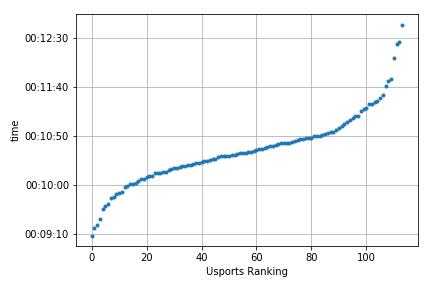
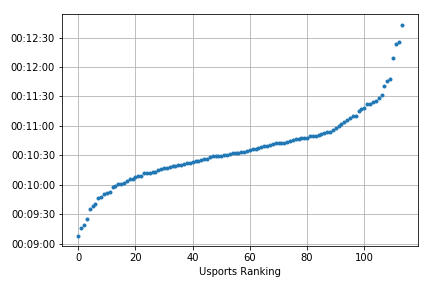
test and add requirements.txt

diff --git a/Trackie Analysis/src/trackie_analysis.py b/Trackie Analysis/src/trackie_analysis.py
@@ -6,24 +6,24 @@ Created on Fri Feb 15 13:58:07 2019
 """
 
 #%%
-
 import datetime
 import numpy as np
 import requests
 import matplotlib.pyplot as plt
 from bs4 import BeautifulSoup as bs
+from matplotlib import dates
 
 from matplotlib import rcParams
 rcParams.update({'figure.autolayout': True})
 
-## Use requests to get data from the Trackie web page            
+## Use requests to get data from the Trackie web page
 URL = 'https://www.trackie.com/USports/TNF/Rankings/wommens-3000-meter/11/'
 
 r = requests.get(URL)
- 
+
 ## Get HTML table
-soup = bs(r.content,'html5lib')    
-table = soup.find("table", attrs={"style":"width: 670px;"}) 
+soup = bs(r.content,'html5lib')
+table = soup.find("table", attrs={"style":"width: 670px;"})
 
 ## Extract data from HTML table
 datasets = []
@@ -38,10 +38,10 @@ for dataset in datasets:
     temp_list = []
     for field in dataset:
         temp_list.append(field)
-        
+
     data_dict[temp_list[1]] = temp_list
     count = count + 1
-    
+
 
 
 def get_sec(time_str):
@@ -52,21 +52,32 @@ def get_sec(time_str):
     return int(m) , int(int_s), int(ms)
 
 ## Converts the string entries in data_dict to usable datetime vlues
-times = []    
+times = []
 for key in data_dict.keys():
     inmin = get_sec(data_dict[key][3][0:7])[0]
     ins = get_sec(data_dict[key][3][0:7])[1]
     inms = get_sec(data_dict[key][3][0:7])[2]
-    data_dict[key][3] = datetime.time(0, inmin, ins, inms)
+    #my_time = datetime.datetime.now() + datetime.timedelta(hours=0, minutes=inmin, seconds=ins, milliseconds= inms)
+    my_time = datetime.datetime(1970, 1, 1, 0, inmin, ins, inms)
+    data_dict[key][3] = my_time#datetime.datetime(0, inmin, ins, inms)
     times.append(data_dict[key][3])
 
-## Make a plot of times vs. rank. Interesting shape.    
+## Make a plot of times vs. rank. Interesting shape.
 sort_times = sorted(times)
+#plot_sort_times = dates.date2num(sort_times)
 plt.plot(sort_times, 'o', markersize=3)
+#plt.gcf().autofmt_xdate()
 plt.xlabel('Usports Ranking')
-plt.grid()    
-plt.savefig('../images/time_vs_rank.png')
+plt.grid()
+plt.savefig('./Trackie Analysis/images/time_vs_rank.png')
 plt.show()
+
+#%%
+import os
+os.listdir('./Trackie Analysis')
+
+
+#%%
 
 
 ##This is dubious, getting unreasonable fastest time and improper labels for higher times
@@ -74,22 +85,21 @@ plt.show()
 
 #for time in sort_times:
 #    total_secs.append(time.minute*60 + time.second)
- 
+
 #string_time = []
 #for secs in total_secs:
 #    minutes = secs//60
 #    seconds = secs%60
 #    string_time.append(str(minutes)+':'+str(secs))
-    
+
 #length = len(total_secs)
-   
+
 #sec_bins = []
-#str_bins = [] 
+#str_bins = []
 #for i in range(0, length, length//10):
 #    sec_bins.append(total_secs[i])
 #    str_bins.append(string_time[i][0:4]+'.'+string_time[i][4])
-#    
+#
 #plt.hist(total_secs)
 #plt.xticks(sec_bins, str_bins, rotation=45)
 #plt.show()
-
